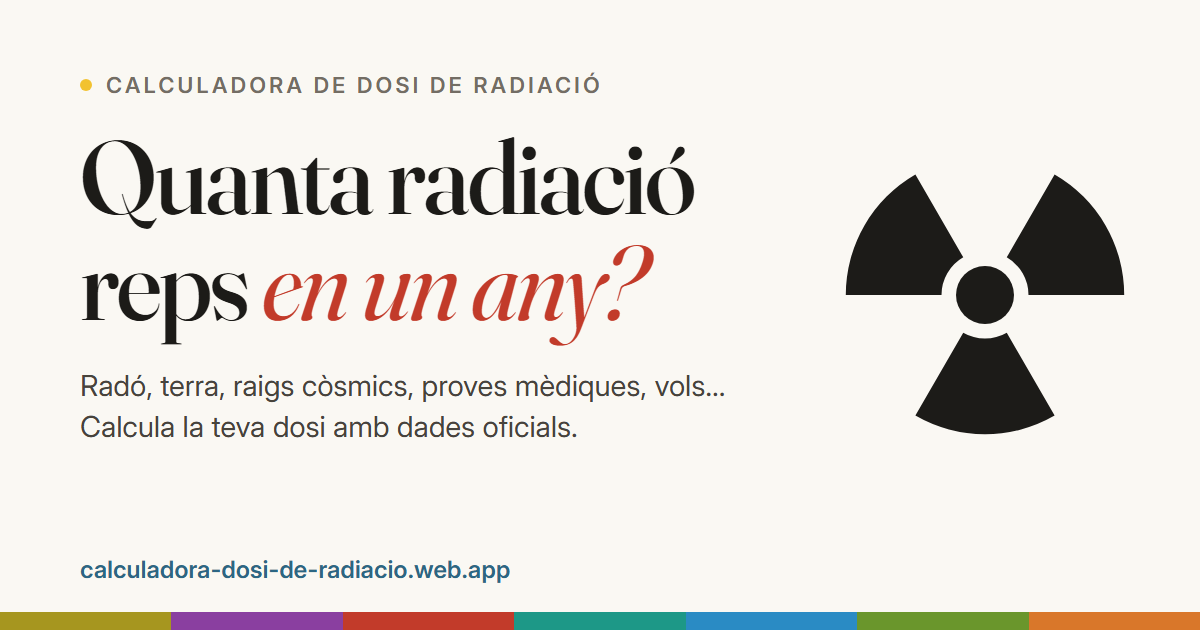
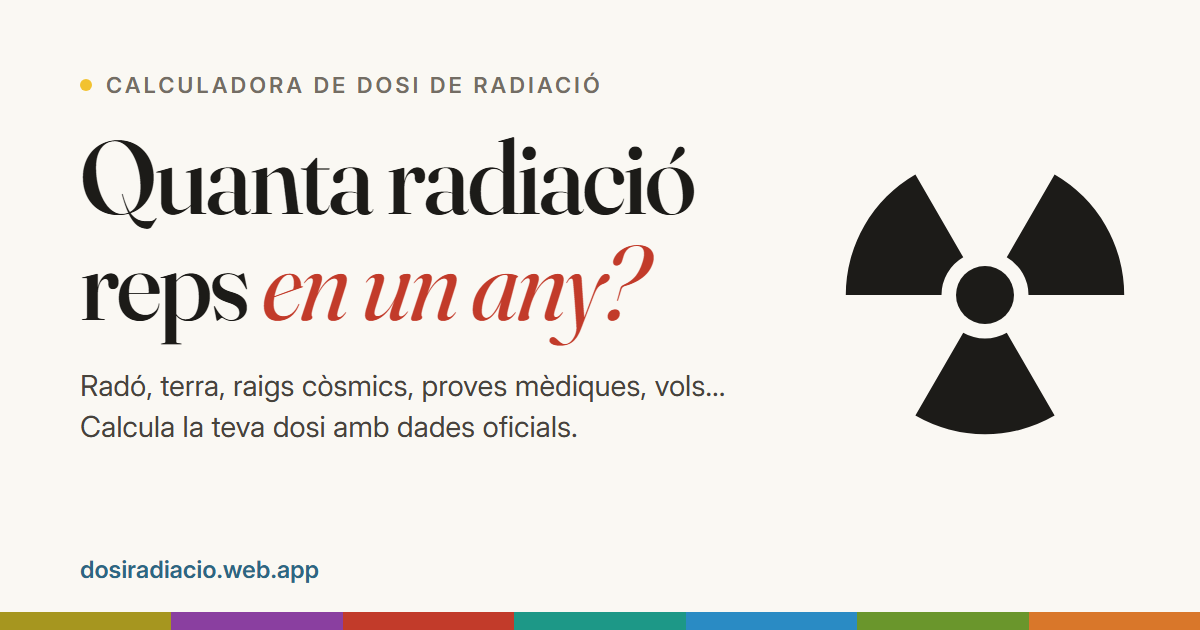
Adreça curta dosiradiacio.web.app i llicències
- Nou lloc de Firebase "dosiradiacio" com a adreça principal; l'antiga
  (calculadora-dosi-de-radiacio.web.app) redirigeix amb 301 a la nova.
- URL canònica, Open Graph, sitemap, robots i imatge per a xarxes actualitzats.
- Llicència MIT per al codi i CC BY 4.0 per als textos i continguts;
  enllaç al codi font i a la llicència al peu de la web.

Changed region(s): [[0.0617, 0.8746, 0.4317, 0.9349]]

diff --git a/public/index.html b/public/index.html
@@ -8,13 +8,13 @@
       name="description"
       content="Calcula la teva dosi anual de radiació ionitzant (radó, terra, raigs còsmics, proves mèdiques, vols…) amb dades d'organismes oficials com el CSN, l'UNSCEAR i l'ICRP, i aprèn quines exposicions importen de debò."
     />
-    <link rel="canonical" href="https://calculadora-dosi-de-radiacio.web.app/" />
+    <link rel="canonical" href="https://dosiradiacio.web.app/" />
     <meta name="author" content="David Galan" />
     <meta name="theme-color" content="#faf8f3" media="(prefers-color-scheme: light)" />
     <meta name="theme-color" content="#15140f" media="(prefers-color-scheme: dark)" />
 
     <meta property="og:type" content="website" />
-    <meta property="og:url" content="https://calculadora-dosi-de-radiacio.web.app/" />
+    <meta property="og:url" content="https://dosiradiacio.web.app/" />
     <meta property="og:site_name" content="Calculadora de dosi de radiació" />
     <meta property="og:title" content="Quanta radiació reps en un any?" />
     <meta
@@ -22,7 +22,7 @@
       content="Calcula la teva dosi anual de radiació i descobreix d'on ve: radó, terra, raigs còsmics, proves mèdiques, vols…"
     />
     <meta property="og:locale" content="ca_ES" />
-    <meta property="og:image" content="https://calculadora-dosi-de-radiacio.web.app/images/og.png" />
+    <meta property="og:image" content="https://dosiradiacio.web.app/images/og.png" />
     <meta property="og:image:width" content="1200" />
     <meta property="og:image:height" content="630" />
     <meta property="og:image:alt" content="Quanta radiació reps en un any? Calculadora de dosi de radiació" />
@@ -496,9 +496,17 @@
             professional de la protecció radiològica o de la salut.
           </p>
         </div>
-        <p>
-          <a href="#calculadora">Calculadora</a> · <a href="#apren">Aprèn</a> · <a href="#fonts">Fonts</a>
-        </p>
+        <div>
+          <p>
+            <a href="#calculadora">Calculadora</a> · <a href="#apren">Aprèn</a> · <a href="#fonts">Fonts</a> ·
+            <a href="https://github.com/daagafr/calculadora-dosi-radiacio" target="_blank" rel="noopener">Codi font</a>
+          </p>
+          <p>
+            Textos sota llicència
+            <a href="https://creativecommons.org/licenses/by/4.0/deed.ca" target="_blank" rel="noopener license">CC BY 4.0</a>
+            · Codi sota llicència MIT
+          </p>
+        </div>
       </div>
     </footer>
 

diff --git a/tools/og-image.html b/tools/og-image.html
@@ -122,7 +122,7 @@
         d="M2.00 50.00A48 48 0 0 1 26.00 8.43L42.50 37.01A15 15 0 0 0 35.00 50.00ZM74.00 8.43A48 48 0 0 1 98.00 50.00L65.00 50.00A15 15 0 0 0 57.50 37.01ZM74.00 91.57A48 48 0 0 1 26.00 91.57L42.50 62.99A15 15 0 0 0 57.50 62.99Z"
       />
     </svg>
-    <div class="url">calculadora-dosi-de-radiacio.web.app</div>
+    <div class="url">dosiradiacio.web.app</div>
     <div class="bar">
       <span style="background: #a6961f"></span>
       <span style="background: #8a3fa0"></span>

diff --git a/CLAUDE.md b/CLAUDE.md
@@ -4,7 +4,7 @@ This file provides guidance to Claude Code (claude.ai/code) when working with co
 
 ## Overview
 
-Static, single-page public-outreach web app that estimates a person's annual ionizing-radiation dose (mSv/year) for people living in Spain. All UI text is in **Catalan**; numbers use a decimal comma (`Intl.NumberFormat("ca-ES")`, see `public/js/format.js`). Hosted on Firebase Hosting at https://calculadora-dosi-de-radiacio.web.app. It started as a high-school research project; the original version is preserved in git as tag `v1-batxillerat`.
+Static, single-page public-outreach web app that estimates a person's annual ionizing-radiation dose (mSv/year) for people living in Spain. All UI text is in **Catalan**; numbers use a decimal comma (`Intl.NumberFormat("ca-ES")`, see `public/js/format.js`). Hosted on Firebase Hosting at https://dosiradiacio.web.app; the original address (calculadora-dosi-de-radiacio.web.app) is a second site in the same project that only 301-redirects there. It started as a high-school research project; the original version is preserved in git as tag `v1-batxillerat`.
 
 No build step and no runtime dependencies: plain ES modules, one stylesheet, self-hosted fonts. Only `public/` is deployed.
 
@@ -12,7 +12,7 @@ No build step and no runtime dependencies: plain ES modules, one stylesheet, sel
 
 - Run locally: `npm start` (runs `tools/dev-server.py`, serves `public/` on http://localhost:5510 with caching disabled — plain `python -m http.server` lets the browser cache stale ES modules).
 - Tests: `npm test` (Node's built-in runner, `node --test "tests/*.test.js"`). Single file: `node --test tests/calc.test.js`.
-- Deploy: `npm run deploy` (runs the tests, then `firebase deploy --only hosting`; site `calculadora-dosi-de-radiacio`).
+- Deploy: `npm run deploy` (runs the tests, then `firebase deploy --only hosting`). `firebase.json` has two targets (mapped in `.firebaserc`): `main` → site `dosiradiacio` serves `public/`; `legacy` → site `calculadora-dosi-de-radiacio` redirects every path to the new address.
 - Social-share image: edit `tools/og-image.html`, then `python tools/make-og-image.py` (headless Chrome/Edge → `public/images/og.png`, 1200×630).
 - CI: `.github/workflows/tests.yml` runs the same tests with plain Node (no `npm install` needed).
 

diff --git a/LICENSE-CONTENT.md b/LICENSE-CONTENT.md
@@ -1,0 +1,18 @@
+# Llicència dels continguts
+
+© 2023–2026 David Galan
+
+Els **textos divulgatius, les explicacions, la selecció i organització de les dades i les imatges** d'aquest projecte es publiquen sota la llicència **[Creative Commons Reconeixement 4.0 Internacional (CC BY 4.0)](https://creativecommons.org/licenses/by/4.0/deed.ca)**. Això inclou, entre d'altres:
+
+- els textos de la web (`public/index.html` i `public/js/i18n/`),
+- les dades recopilades (`public/js/data/`),
+- els informes de recerca (`docs/`),
+- la imatge per a xarxes (`public/images/og.png`).
+
+Pots copiar, redistribuir, adaptar i fer-ne qualsevol ús, fins i tot comercial, sempre que **citis l'autor** (David Galan, *Calculadora de dosi de radiació*, https://dosiradiacio.web.app) i indiquis si hi has fet canvis.
+
+## Excepcions
+
+- El **codi font** es distribueix sota la llicència MIT (fitxer [`LICENSE`](LICENSE)).
+- Les **tipografies** Fraunces i Inter (`public/fonts/`) tenen la seva pròpia llicència SIL Open Font License (vegeu els fitxers `LICENSE-*.txt` de la mateixa carpeta).
+- Els **valors de dosi** provenen de les fonts citades a la bibliografia (CSN, UNSCEAR, ICRP, Comissió Europea…). Si els reutilitzes, cita també aquestes fonts originals.

diff --git a/README.md b/README.md
@@ -2,7 +2,7 @@
 
 **Quanta radiació reps en un any?** Calculadora divulgativa de la dosi anual de radiació ionitzant per a persones que viuen a Espanya: radó, radiació del terra, raigs còsmics, aliments, proves mèdiques, vols, tabac i feina.
 
-👉 **https://calculadora-dosi-de-radiacio.web.app**
+👉 **https://dosiradiacio.web.app**
 
 ![Quanta radiació reps en un any?](public/images/og.png)
 
@@ -44,6 +44,12 @@ Si canvies alguna dosi, actualitza també l'informe corresponent de `docs/fonts/
 ## Avís
 
 És una eina educativa: dona estimacions amb valors típics, no una mesura personal ni un consell mèdic.
+
+## Llicència
+
+- **Codi:** [MIT](LICENSE).
+- **Textos, dades recopilades, informes i imatges:** [CC BY 4.0](LICENSE-CONTENT.md). Pots reutilitzar-los citant l'autor.
+- **Tipografies** (Fraunces i Inter): SIL Open Font License.
 
 ## Autor
 
